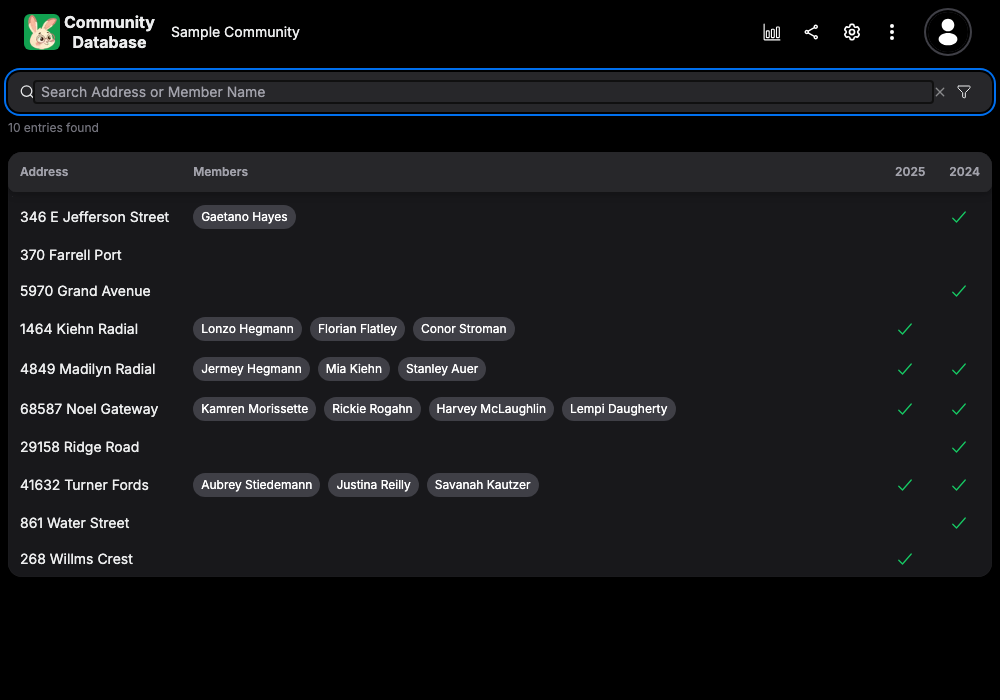
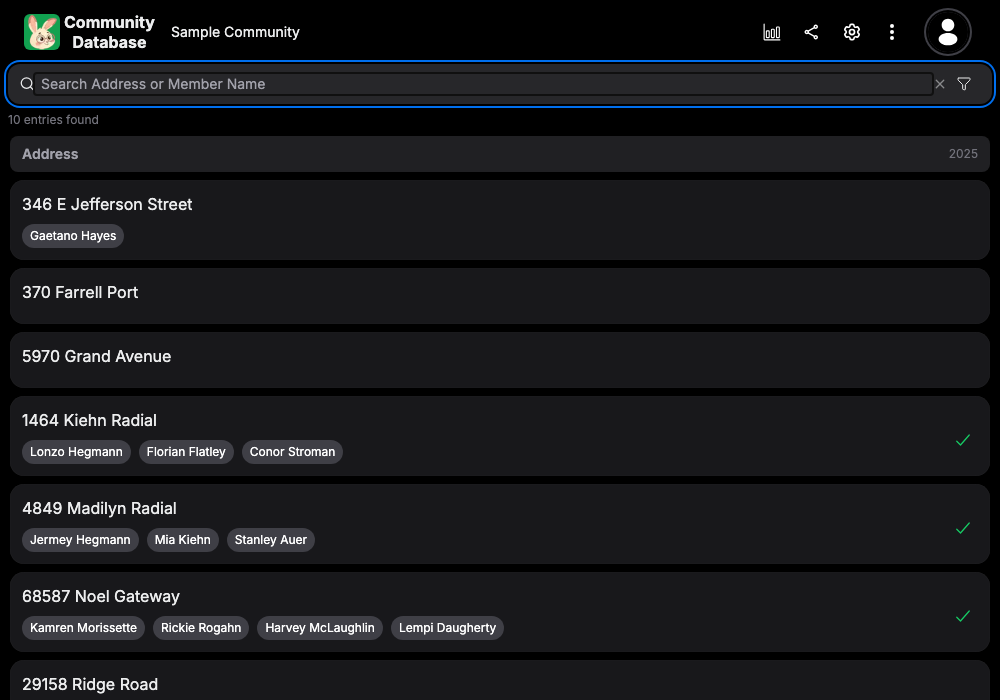
feat: mobile friendly property list

diff --git a/src/app/community/[communityId]/property-list/property-card/index.tsx b/src/app/community/[communityId]/property-list/property-card/index.tsx
@@ -10,18 +10,26 @@ import { useMemberYear } from './use-member-year';
 interface Props extends Omit<CardProps, 'property'> {
   className?: string;
   property: PropertyEntry;
+  /** Show header row showing membership year status */
+  showHeader?: boolean;
 }
 
 export const PropertyCard: React.FC<Props> = ({
   className,
   property,
+  showHeader,
   children,
   ...props
 }) => {
   const yearsToShow = useMemberYear();
 
   return (
-    <Card shadow="sm" classNames={{ base: twMerge(className) }} {...props}>
+    <Card
+      classNames={{ base: twMerge(className) }}
+      role="row"
+      shadow="sm"
+      {...props}
+    >
       <CardBody className="flex flex-row gap-2">
         <div className="flex flex-col gap-2">
           <PropertyAddress fragment={property} />
@@ -35,13 +43,39 @@ export const PropertyCard: React.FC<Props> = ({
           )}
         >
           {yearsToShow.map((year) => (
-            <Membership
-              key={`${property.id}-${year}`}
-              fragment={property}
-              year={year}
-            />
+            <React.Fragment key={`${property.id}-${year}`}>
+              <span
+                className={cn('text-xs text-default-400', {
+                  'invisible h-0': !showHeader,
+                })}
+              >
+                {year}
+              </span>
+              <Membership fragment={property} year={year} />
+            </React.Fragment>
           ))}
           {children}
+        </div>
+      </CardBody>
+    </Card>
+  );
+};
+
+export const PropertyCardHeader: React.FC<unknown> = () => {
+  const yearsToShow = useMemberYear();
+
+  return (
+    <Card className="mx-0.5 bg-default-200/50" shadow="none" radius="sm">
+      <CardBody className="flex flex-row gap-2 py-2">
+        <div className="grow text-sm font-semibold text-default-500">
+          Address
+        </div>
+        <div className={cn('grid grid-flow-col', 'items-center gap-2')}>
+          {yearsToShow.map((year) => (
+            <span key={year} className="text-xs text-default-400">
+              {year}
+            </span>
+          ))}
         </div>
       </CardBody>
     </Card>

diff --git a/tests/utils/navigate.ts b/tests/utils/navigate.ts
@@ -15,15 +15,8 @@ export async function navigatePropertyList(page: Page) {
   await page.getByRole('link', { name: 'Select Community' }).click();
   await page.getByRole('option', { name: 'Sample Community' }).click();
 
-  await expect(
-    page
-      .getByLabel('Property Table')
-      /**
-       * To detect if all rows have been propagated in the table, check if a row
-       * with attribute `data-list="true"` exists
-       */
-      .locator('tbody > tr[data-last="true"]')
-  ).toBeVisible();
+  const rows = page.getByLabel('Property Table').getByRole('row');
+  await expect(rows.first()).toBeVisible();
 }
 
 /**
@@ -35,13 +28,15 @@ export async function navigateProperty(page: Page, address: string) {
   await navigatePropertyList(page);
 
   // Go to address matching input
-  const rows = page
+  const matchingRow = page
     .getByLabel('Property Table')
-    .locator('tbody > tr')
+    .getByRole('row')
     .filter({
-      has: page.locator('td:nth-child(1)').filter({ hasText: address }),
-    });
-  await rows.nth(0).click();
+      // Get the row matching the input address
+      hasText: address,
+    })
+    .first();
+  await matchingRow.click();
   await expect(page.getByText('Membership Status')).not.toBeEmpty();
 }
 

diff --git a/src/app/community/[communityId]/property-list/page-content.tsx b/src/app/community/[communityId]/property-list/page-content.tsx
@@ -10,7 +10,7 @@ import { onError } from '~/graphql/on-error';
 import { appLabel, appPath } from '~/lib/app-path';
 import { Loading } from '~/view/base/loading';
 import { MoreMenu } from './more-menu';
-import { PropertyCard } from './property-card';
+import { PropertyCard, PropertyCardHeader } from './property-card';
 import { PropertySearchHeader } from './property-search-header';
 
 const CommunityFromIdQuery = graphql(/* GraphQL */ `
@@ -118,11 +118,11 @@ export const PageContent: React.FC<Props> = ({ communityId }) => {
   return (
     <>
       {community && <MoreMenu community={community} />}
-      <PropertySearchHeader
-        className="sticky top-header-height z-50 mb-2 bg-background"
-        community={community}
-      />
-      <div className="mx-0.5 flex flex-col gap-2">
+      <div className="sticky top-header-height z-50 mb-2 bg-background">
+        <PropertySearchHeader className="mb-2" community={community} />
+        <PropertyCardHeader />
+      </div>
+      <div className="mx-0.5 flex flex-col gap-2" aria-label="Property Table">
         {rows.length > 0 &&
           rows.map((property) => (
             <PropertyCard

diff --git a/tests/screenshot/landing.ts b/tests/screenshot/landing.ts
@@ -85,17 +85,18 @@ test.describe.serial('Take @screenshot for landing screen', () => {
   });
 
   test('Property Details', async ({ theme }) => {
-    const rows = page.getByLabel('Property Table').locator('tbody > tr');
+    const rows = page.getByLabel('Property Table').getByRole('row');
     const membersInCurYear = rows
       // Members name is non empty
       .filter({
-        has: page.locator('td:nth-child(2)').filter({ hasText: /./ }),
+        has: page.getByRole('listitem'),
       })
-      // Current year has checkmark
+      // Current membership year has checkmark
       .filter({
-        has: page.locator('td:nth-child(3) svg'),
-      });
-    await membersInCurYear.nth(0).click();
+        has: page.locator('svg'),
+      })
+      .first();
+    await membersInCurYear.click();
 
     await expect(page.getByText('Membership Status')).not.toBeEmpty();
     await takeScreenshot(page, theme, 'property-detail');

diff --git a/tailwind.config.js b/tailwind.config.js
@@ -16,15 +16,18 @@ module.exports = {
       },
       spacing: {
         'header-height': 'var(--header-height)',
-        /**
-         * The available height in <main/>
-         *
-         * 0.5rem is the default page-top (assuming it is used)
-         */
-        'main-height': 'calc(100vh - var(--header-height) - 0.5rem)',
+        /** The available height in <main/> */
+        'main-height': 'calc(100vh - var(--header-height))',
         /** Default spacing used below header */
         'page-top': '0.5rem',
         'page-x': '0.5rem',
+      },
+      dropShadow: {
+        /**
+         * Add border around text to make text show more clearly in front of
+         * busy background
+         */
+        text: '0 1px 1px rgba(var(--background-end-rgb))',
       },
     },
   },

diff --git a/src/app/community/[communityId]/property-list/property-card/membership.tsx b/src/app/community/[communityId]/property-list/property-card/membership.tsx
@@ -1,5 +1,4 @@
 import React from 'react';
-import { twMerge } from 'tailwind-merge';
 import { getFragment, graphql, type FragmentType } from '~/graphql/generated';
 import { Icon } from '~/view/base/icon';
 
@@ -24,16 +23,13 @@ export const Membership: React.FC<Props> = ({ fragment, year }) => {
     (entry) => entry.year === year
   );
 
+  if (!membership?.isMember) {
+    return <div />;
+  }
+
   return (
-    <>
-      <span className="text-xs text-default-400">{`'${year % 100}`}</span>
-      {!!membership?.isMember ? (
-        <span className="text-xl text-success">
-          <Icon icon="checkmark" />
-        </span>
-      ) : (
-        <div />
-      )}
-    </>
+    <span className="m-auto text-xl text-success">
+      <Icon icon="checkmark" />
+    </span>
   );
 };

diff --git a/src/app/community/[communityId]/property-list/property-card/occupant.tsx b/src/app/community/[communityId]/property-list/property-card/occupant.tsx
@@ -32,10 +32,17 @@ export const Occupant: React.FC<Props> = ({
     })
     .filter((name) => !R.isEmpty(name));
 
+  if (nameList.length === 0) {
+    return null;
+  }
+
   return (
-    <div className={twMerge('flex flex-wrap items-center gap-2', className)}>
+    <div
+      className={twMerge('flex flex-wrap items-center gap-2', className)}
+      role="list"
+    >
       {nameList.map((name, idx) => (
-        <Chip key={idx} size="sm" {...props}>
+        <Chip key={idx} size="sm" role="listitem" {...props}>
           {name}
         </Chip>
       ))}

diff --git a/src/app/view/landing/hero/index.tsx b/src/app/view/landing/hero/index.tsx
@@ -35,8 +35,10 @@ export const Hero: React.FC<Props> = ({ className }) => {
           <Link href={appPath('home')}>
             <AppLogo size={96} />
           </Link>
-          <h1 className="text-5xl font-extrabold">{appTitle}</h1>
-          <p className="text-2xl">
+          <h1 className="drop-shadow-text text-5xl font-extrabold">
+            {appTitle}
+          </h1>
+          <p className="drop-shadow-text text-2xl">
             A platform to build, engage and grow communities.
           </p>
           {!!session.data ? (

diff --git a/src/app/community/[communityId]/dashboard/page.tsx b/src/app/community/[communityId]/dashboard/page.tsx
@@ -20,7 +20,7 @@ export default function Dashboard(props: RouteArgs) {
   const { yearSelected } = useSelector((state) => state.ui);
 
   return (
-    <>
+    <div className="mt-page-top">
       <MoreMenu omitKeys={['communityDashboard']} />
       <div className="mb-4 grid gap-4 md:grid-cols-2">
         <MemberCountChart
@@ -34,6 +34,6 @@ export default function Dashboard(props: RouteArgs) {
           <YearlyChart communityId={communityId} year={yearSelected} />
         )}
       </div>
-    </>
+    </div>
   );
 }

diff --git a/src/app/community/[communityId]/property/[propertyId]/view/page.tsx b/src/app/community/[communityId]/property/[propertyId]/view/page.tsx
@@ -26,7 +26,7 @@ export default function Property(props: RouteArgs) {
       <MoreMenu />
       <div className="flex flex-col gap-3">
         <PropertyAutocomplete
-          className="sticky top-header-height z-50 bg-background pb-2"
+          className="sticky top-header-height z-50 bg-background"
           currentPropertyId={property.id}
         />
         <PropertyDisplay />

diff --git a/src/app/community/[communityId]/property/[propertyId]/view/property-display/index.tsx b/src/app/community/[communityId]/property/[propertyId]/view/property-display/index.tsx
@@ -39,7 +39,7 @@ export const PropertyDisplay: React.FC<Props> = ({ className, isLoading }) => {
   }, [canEdit]);
 
   return (
-    <PropertyCard className={className} property={entry}>
+    <PropertyCard className={className} property={entry} showHeader>
       <EditMembership />
     </PropertyCard>
   );

diff --git a/src/app/tutorial/layout.tsx b/src/app/tutorial/layout.tsx
@@ -9,7 +9,7 @@ interface LayoutProps {
 
 export default function TutorialLayout({ children }: LayoutProps) {
   return (
-    <div className="ml-page-x mt-page-top flex h-main-height">
+    <div className="ml-page-x flex h-main-height">
       <GuideMenu />
       <div
         className={cn(
